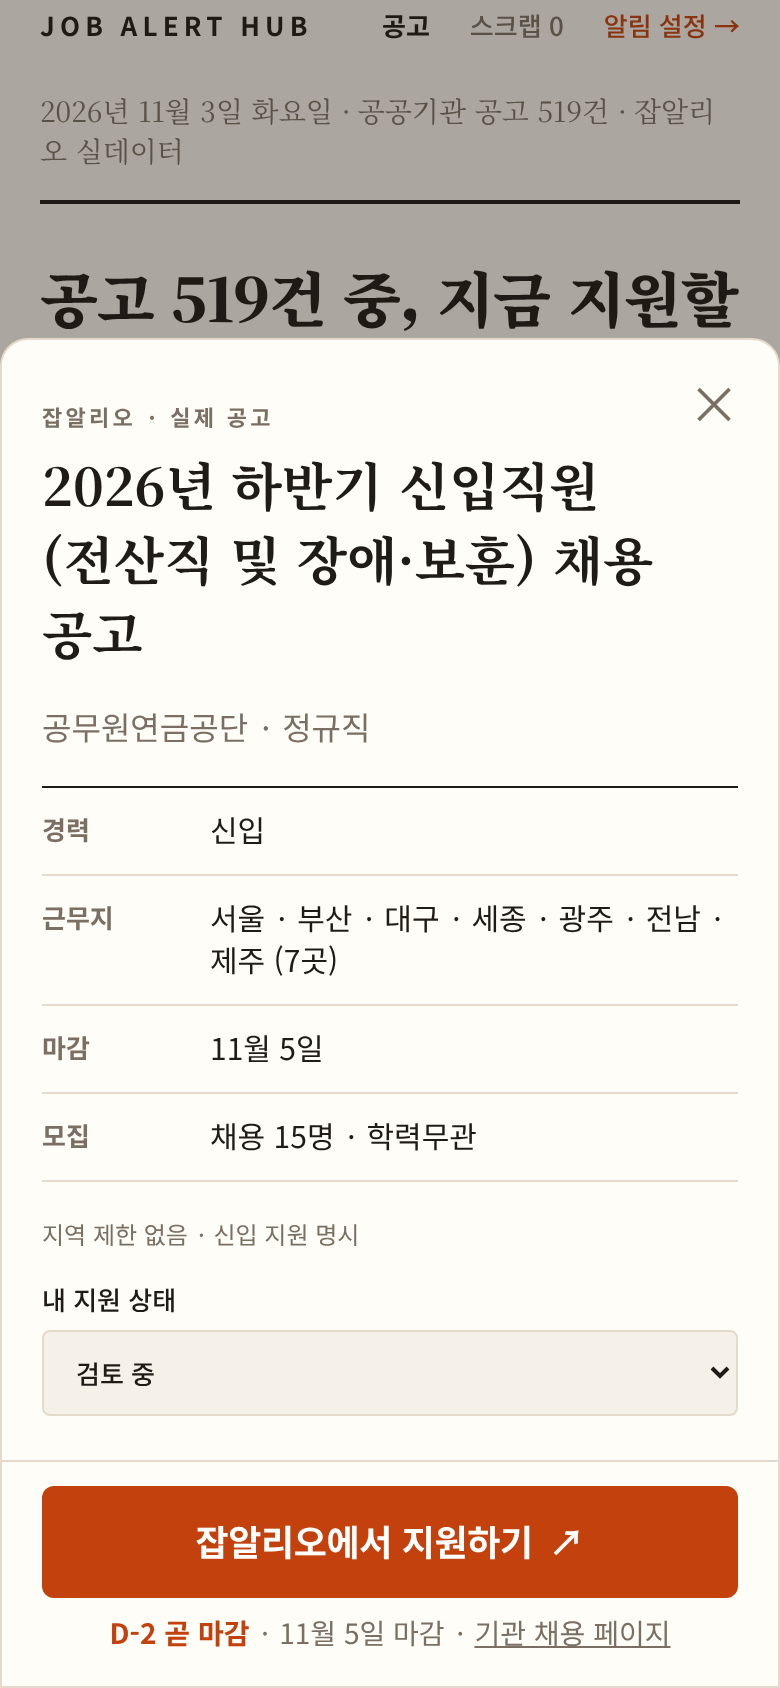
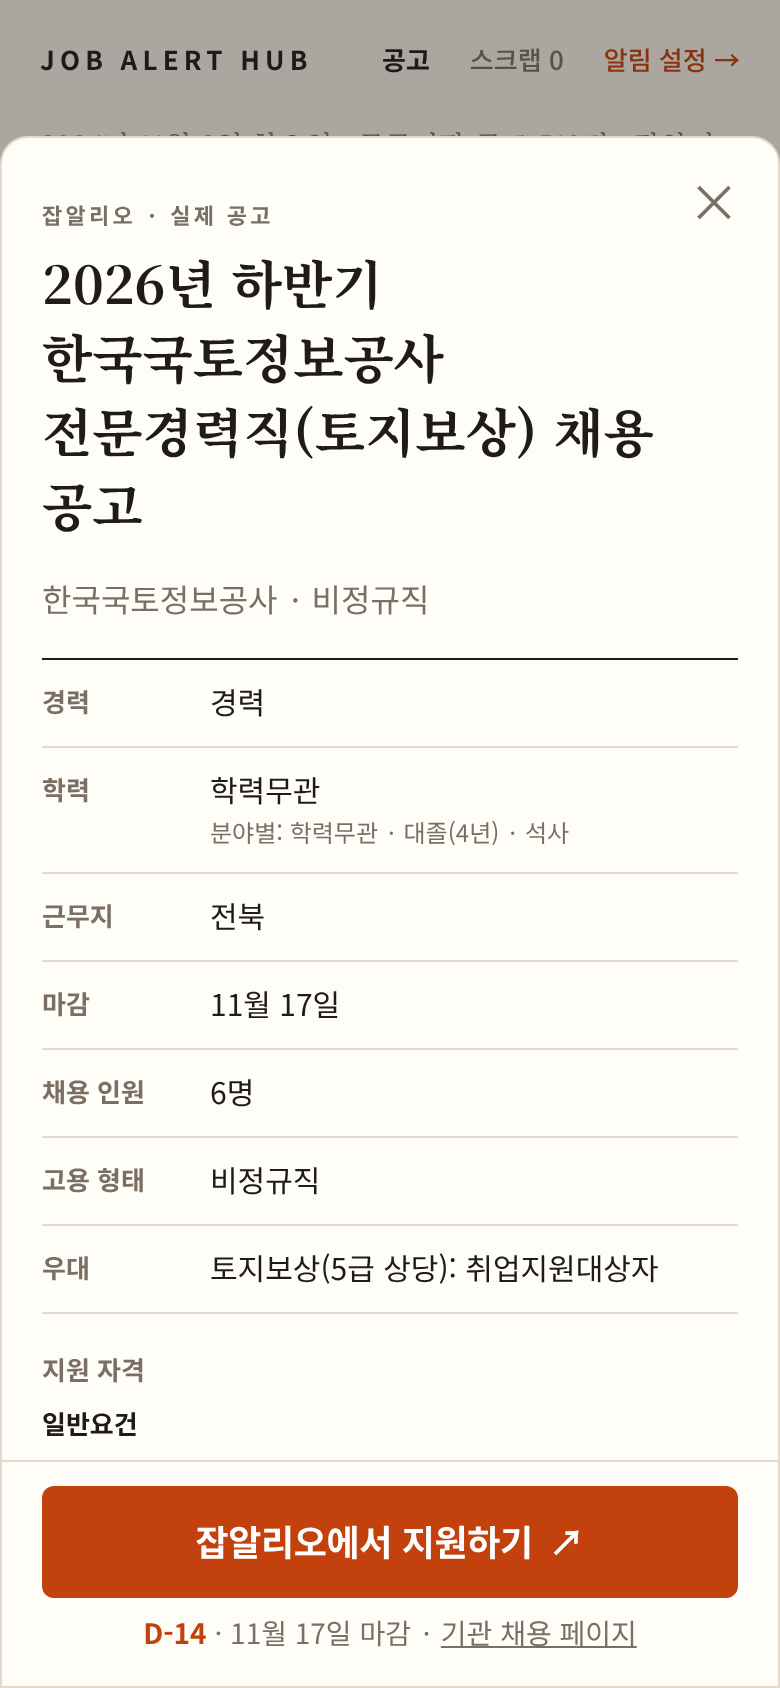
feat(web): show hiring conditions in job detail
채용 인원, 학력 (minimum, with per-field levels), 고용 형태, 우대, and
the 지원 자격 lines with short headings like '필수요건' as subheadings;
long lists collapse after six lines.

Claude-Session: https://claude.ai/code/session_01EQC3774ipWazyES5isKpcR

diff --git a/apps/web/public/app.js b/apps/web/public/app.js
@@ -176,12 +176,37 @@ function applyBlock(job) {
     <p class="apply-meta">${when}${secondary ? ` · <a href="${escape(secondary)}" target="_blank" rel="noopener noreferrer">기관 채용 페이지</a>` : ''}</p>
   </div>`;
 }
+function factRow(label, value, { raw = null, note = '' } = {}) {
+  if (!value) return '';
+  const unknown = value === UNKNOWN;
+  const body = unknown
+    ? `확인 필요 <small>공고 표기 “${escape(raw)}”를 해석하지 못했어요</small>`
+    : `${escape(value)}${note ? `<small>${escape(note)}</small>` : ''}${raw && showRaw ? ` <small class="raw-inline">“${escape(raw)}”</small>` : ''}`;
+  return `<div><dt>${label}</dt><dd${unknown ? ' class="unknown"' : ''}>${body}</dd></div>`;
+}
+/** 지원 전에 확인할 조건: 경력·학력·근무지·마감·인원·고용 형태, 그리고 지원 자격 원문 */
 function facts(job) {
-  const rows = [['경력', job.raw.experience, describeExperience(job.parsed.experience)], ['근무지', job.raw.location, describeLocation(job.parsed.location)], ['마감', job.raw.deadline, describeDeadline(job.parsed.deadline)], ['모집', null, job.description]];
-  return `<dl class="facts">${rows.filter(([, , value]) => value).map(([label, raw, value]) => {
-    const unknown = value === UNKNOWN;
-    return `<div><dt>${label}</dt><dd${unknown ? ' class="unknown"' : ''}>${unknown ? `확인 필요 <small>공고 표기 “${escape(raw)}”를 해석하지 못했어요</small>` : escape(value)}${!unknown && raw && showRaw ? ` <small class="raw-inline">“${escape(raw)}”</small>` : ''}</dd></div>`;
-  }).join('')}</dl>`;
+  const d = job.details;
+  const rows = [
+    factRow('경력', describeExperience(job.parsed.experience), { raw: job.raw.experience }),
+    d ? factRow('학력', d.minimumEducation ?? d.education.join(' · '), { note: d.education.length > 1 ? `분야별: ${d.education.join(' · ')}` : '' }) : '',
+    factRow('근무지', describeLocation(job.parsed.location), { raw: job.raw.location }),
+    factRow('마감', describeDeadline(job.parsed.deadline), { raw: job.raw.deadline }),
+    d ? factRow('채용 인원', d.headcount ? `${d.headcount}명` : '') : '',
+    factRow('고용 형태', job.employment),
+    d ? factRow('우대', d.preferences) : factRow('모집', job.description),
+  ];
+  return `<dl class="facts">${rows.join('')}</dl>${requirements(d)}`;
+}
+const PREVIEW_LINES = 6;
+/** "일반요건", "필수요건", "채용분야 응시자격"처럼 짧고 요건·자격으로 끝나는 줄은 소제목으로 본다. */
+const SECTION = /^[^.,]{0,12}(?:요건|자격|사항|조건)$/;
+function requirements(details) {
+  const lines = details?.requirements ?? [];
+  if (!lines.length) return '';
+  const render = list => list.map(line => SECTION.test(line) ? `<li class="req-section">${escape(line)}</li>` : `<li>${escape(line)}</li>`).join('');
+  const rest = lines.slice(PREVIEW_LINES);
+  return `<section class="requirements" aria-labelledby="req-title"><h3 id="req-title">지원 자격</h3><ul>${render(lines.slice(0, PREVIEW_LINES))}</ul>${rest.length ? `<details><summary>${rest.length}줄 더 보기</summary><ul>${render(rest)}</ul></details>` : ''}<p class="muted small">공고 원문 그대로예요. 세부 조건은 지원하기에서 공고문을 확인하세요.</p></section>`;
 }
 
 fillForm($('#filter-form'), state.filters);

diff --git a/apps/web/public/styles.css b/apps/web/public/styles.css
@@ -200,3 +200,12 @@ dialog .apply-button { grid-column: 2; min-width: 240px; }
 
 /* 한국어는 어절 단위로 줄을 바꾼다 ("채용 공\n고" 방지) */
 h1, h2, .job-title, .facts dd { word-break: keep-all; overflow-wrap: anywhere; }
+
+.requirements { margin: 4px 0 18px; }
+.requirements h3 { font-size: 13px; font-weight: 700; color: var(--mute); margin: 0 0 8px; }
+.requirements ul { margin: 0; padding-left: 18px; display: grid; gap: 5px; font-size: 14px; line-height: 1.55; word-break: keep-all; overflow-wrap: anywhere; }
+.requirements details { margin-top: 6px; }
+.requirements summary { cursor: pointer; font-size: 13px; color: var(--accent); font-weight: 600; margin-bottom: 6px; }
+.requirements .small { margin-top: 8px; }
+.requirements li.req-section { list-style: none; margin: 6px 0 0 -18px; font-weight: 700; font-size: 13px; }
+.requirements li.req-section:first-child { margin-top: 0; }

diff --git a/README.md b/README.md
@@ -60,9 +60,9 @@ flowchart LR
 
 남은 2건은 근무지가 `해외`인 공고로, 시·도가 아니므로 "확인 필요"로 남기는 것이 의도한 동작입니다. 두 규칙은 실제 표기를 테스트 케이스로 고정했습니다 ([kr-job-parser 0.3.0](packages/kr-job-parser/CHANGELOG.md)).
 
-| 공고 상세: 지원하기 버튼 고정 | 모바일 |
+| 공고 상세: 지원 조건과 지원하기 버튼 | 모바일 |
 | --- | --- |
-| ![해석한 경력·근무지·마감과 하단에 고정된 잡알리오 지원하기 버튼](docs/images/live-dialog.png) | <img src="docs/images/live-mobile.png" alt="모바일에서 아래에서 올라오는 공고 상세와 지원하기 버튼" width="320"> |
+| ![경력·학력·근무지·마감·채용 인원·우대·지원 자격과 하단에 고정된 지원하기 버튼](docs/images/live-dialog.png) | <img src="docs/images/live-mobile.png" alt="모바일에서 아래에서 올라오는 공고 상세와 지원하기 버튼" width="320"> |
 
 사용자에게는 해석한 값만 보여줍니다. 공고 표기는 해석하지 못한 항목에만 "확인 필요"와 함께 나타나고, 주소에 `?raw`를 붙이면 개발용으로 모든 원문을 함께 볼 수 있습니다.
 
@@ -89,6 +89,7 @@ flowchart LR
 | 스크랩·지원 관리 | 브라우저 저장소에 스크랩과 지원 상태 저장 |
 | 지원 요건 표시 | 원문 표기(경력·근무지·마감)를 [kr-job-parser](packages/kr-job-parser)로 해석해 판정. 해석하지 못한 항목만 원문과 함께 "확인 필요"로 표시 |
 | 지원하기 | 공고 상세 하단에 고정된 버튼으로 잡알리오 공고 상세(공고문·접수 안내)로 이동, 마감 임박 강조 |
+| 지원 조건 | 채용 인원, 최소 학력(분야별 학력 포함), 고용 형태, 우대 조건, 지원 자격 원문을 공고 상세에 정리 |
 | 실데이터 | 공공데이터포털(잡알리오) 연동, 매일 자동 수집·배포 |
 | 이메일·메신저 | 연동 예정 |
 | 유사 공고·관심 없음 | 구현 예정 |
